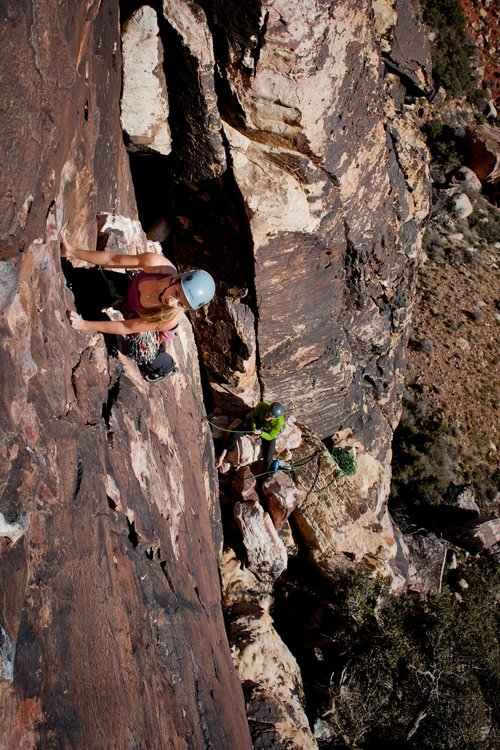
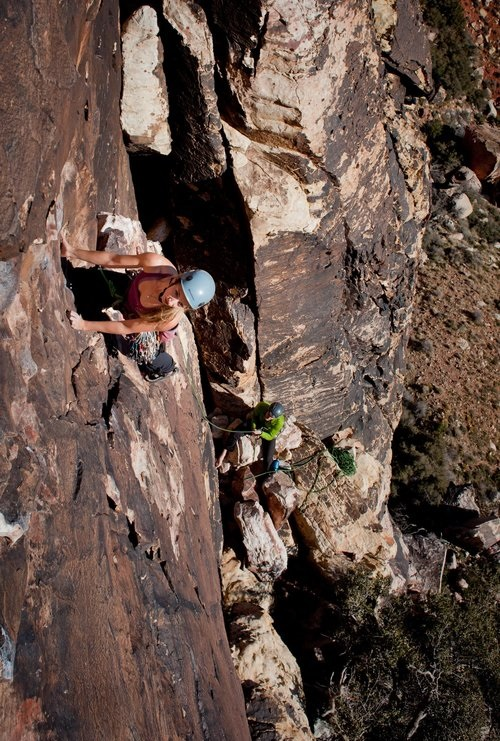
fixed uneven guide tier photos, cropped all to 741px height to be consistent

diff --git a/WHAT_TO_WORK_ON.js b/WHAT_TO_WORK_ON.js
@@ -303,7 +303,7 @@ todo - make sure tab through accessibility is there... IF there is a reason for 
     Need to make it not too extensive... but I still want to get a lot of basic info that we need... So that we don't have to regurgitate over and over all the basics and guess what they want to do.
     * Do I need labels? What about just using the starting value/text or placeholder? This way I could condense the area it covers a lot. Not sure how that would impact accessability
 todo - Fix TierCard.js photo credit overlay text
-todo - fix tier card img height on tier 3
+// todo - fix tier card img height on tier 3 -- by cropping them all to the same 741px height
 // todo - should the Tier # and tag line (half day, full day, multipitch) be split to 2 lines always?... this is nitpicky. Its fine the way it is.
 // todo - probably add some bar below everything that says that we can accomodate other complicated outings
 //     such as huge groups, corporate outings, packages with photographer and/or pro climbers, etc... contact us and let us know what you are wanting to do. Also adventure hikes (bridge mtn), scouting descent routes, canyoneering rarely (the maze), bouldering guide (very uncommon), etc...
